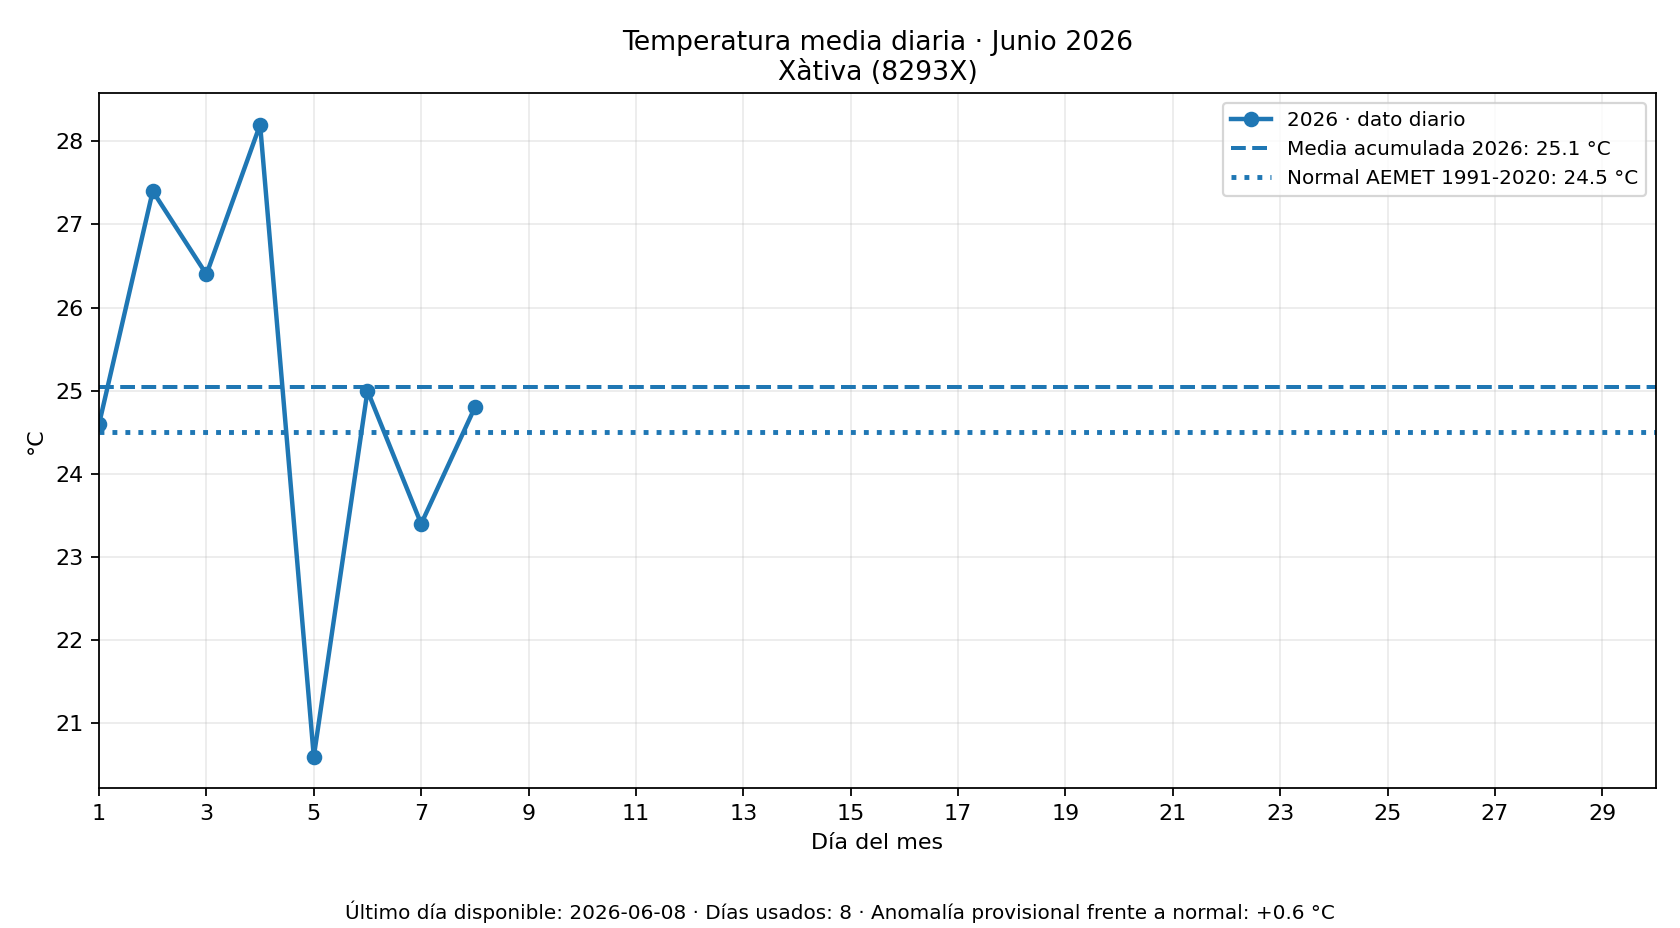
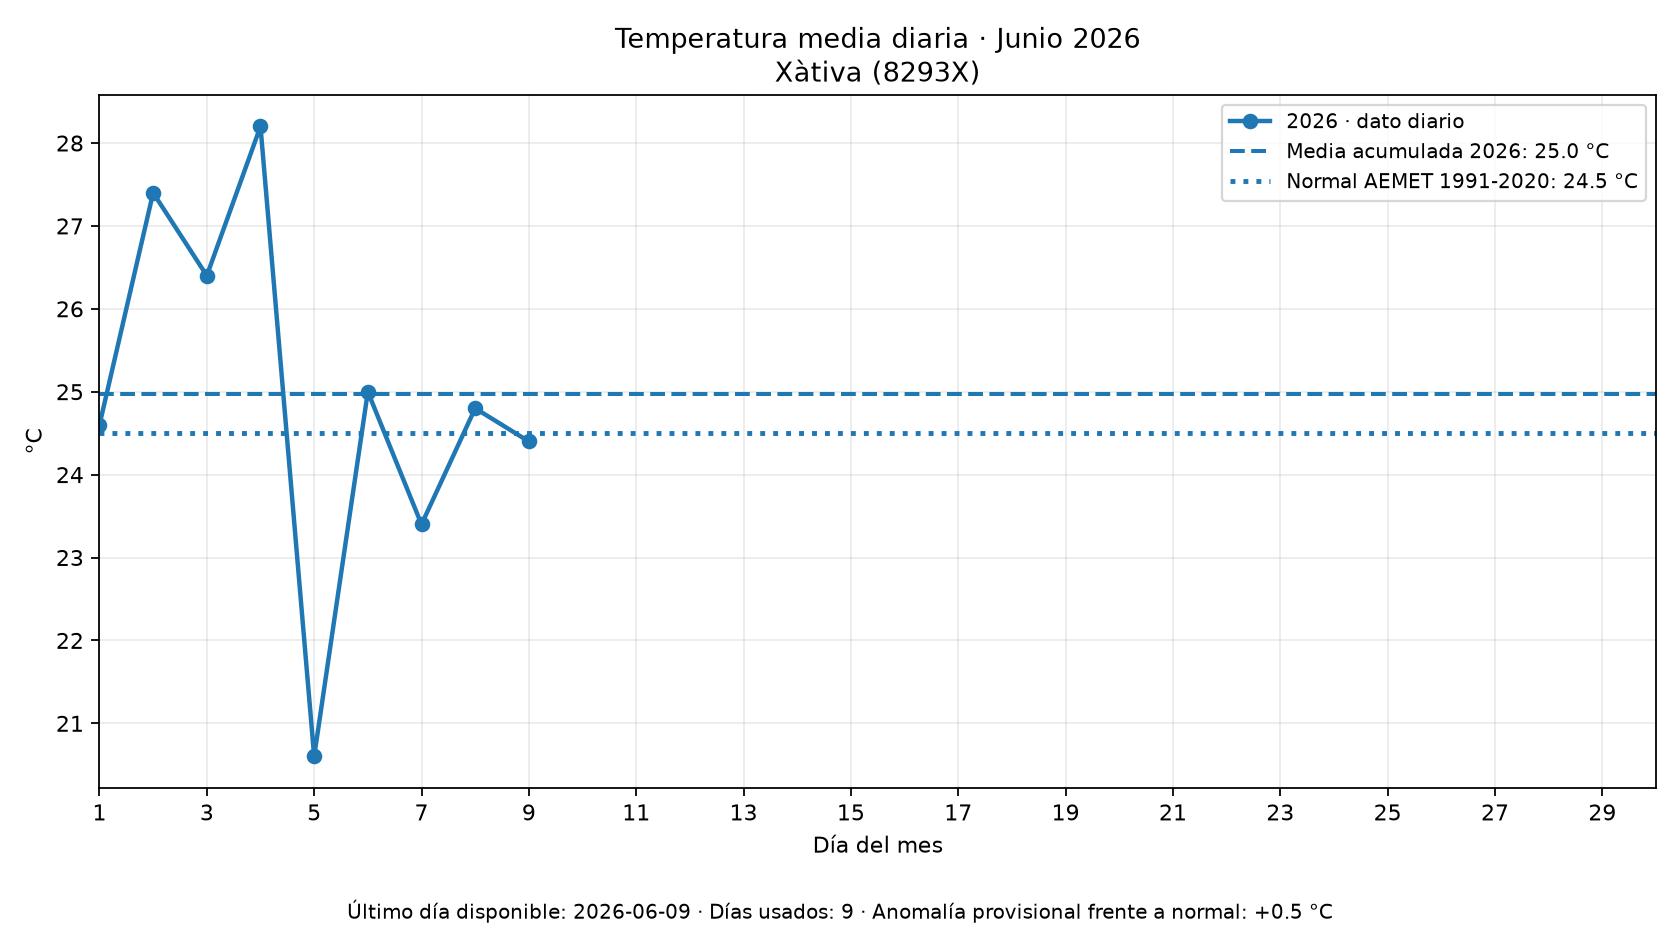
Actualizar clima AEMET

diff --git a/docs/clima/index.html b/docs/clima/index.html
@@ -104,7 +104,7 @@
 <p><strong>Periodo:</strong> Junio 2026</p>
 <p><strong>Referencia:</strong> normal climática oficial AEMET 1991-2020 del mismo mes</p>
 <p><strong>Variables:</strong> Temperatura media mensual</p>
-<p><strong>Actualización del visor:</strong> 11/06/2026 21:49 hora peninsular</p>
+<p><strong>Actualización del visor:</strong> 12/06/2026 20:20 hora peninsular</p>
 </section>
 <main class="grid">
 <section class="estacion">
@@ -112,12 +112,12 @@
 <article class="variable">
 <h3>Temperatura media mensual</h3>
 <div class="datos">
-<div class='dato'><strong>23.3</strong>Media actual °C</div>
+<div class='dato'><strong>23.4</strong>Media actual °C</div>
 <div class='dato'><strong>23.3</strong>Normal 1991-2020 °C</div>
-<div class='dato'><strong>+0.0</strong>Anomalía °C</div>
+<div class='dato'><strong>+0.1</strong>Anomalía °C</div>
 </div>
 <img src='graficos/8416_tmed_202606_normal_1991_2020.png' alt='Temperatura media mensual en València'>
-<p class='codigo'>Último día disponible: 2026-06-08 · Días usados: 8</p>
+<p class='codigo'>Último día disponible: 2026-06-09 · Días usados: 9</p>
 </article>
 </section>
 <section class="estacion">
@@ -125,12 +125,12 @@
 <article class="variable">
 <h3>Temperatura media mensual</h3>
 <div class="datos">
-<div class='dato'><strong>25.1</strong>Media actual °C</div>
+<div class='dato'><strong>25.0</strong>Media actual °C</div>
 <div class='dato'><strong>24.5</strong>Normal 1991-2020 °C</div>
-<div class='dato'><strong>+0.6</strong>Anomalía °C</div>
+<div class='dato'><strong>+0.5</strong>Anomalía °C</div>
 </div>
 <img src='graficos/8293X_tmed_202606_normal_1991_2020.png' alt='Temperatura media mensual en Xàtiva'>
-<p class='codigo'>Último día disponible: 2026-06-08 · Días usados: 8</p>
+<p class='codigo'>Último día disponible: 2026-06-09 · Días usados: 9</p>
 </article>
 </section>
 </main>
